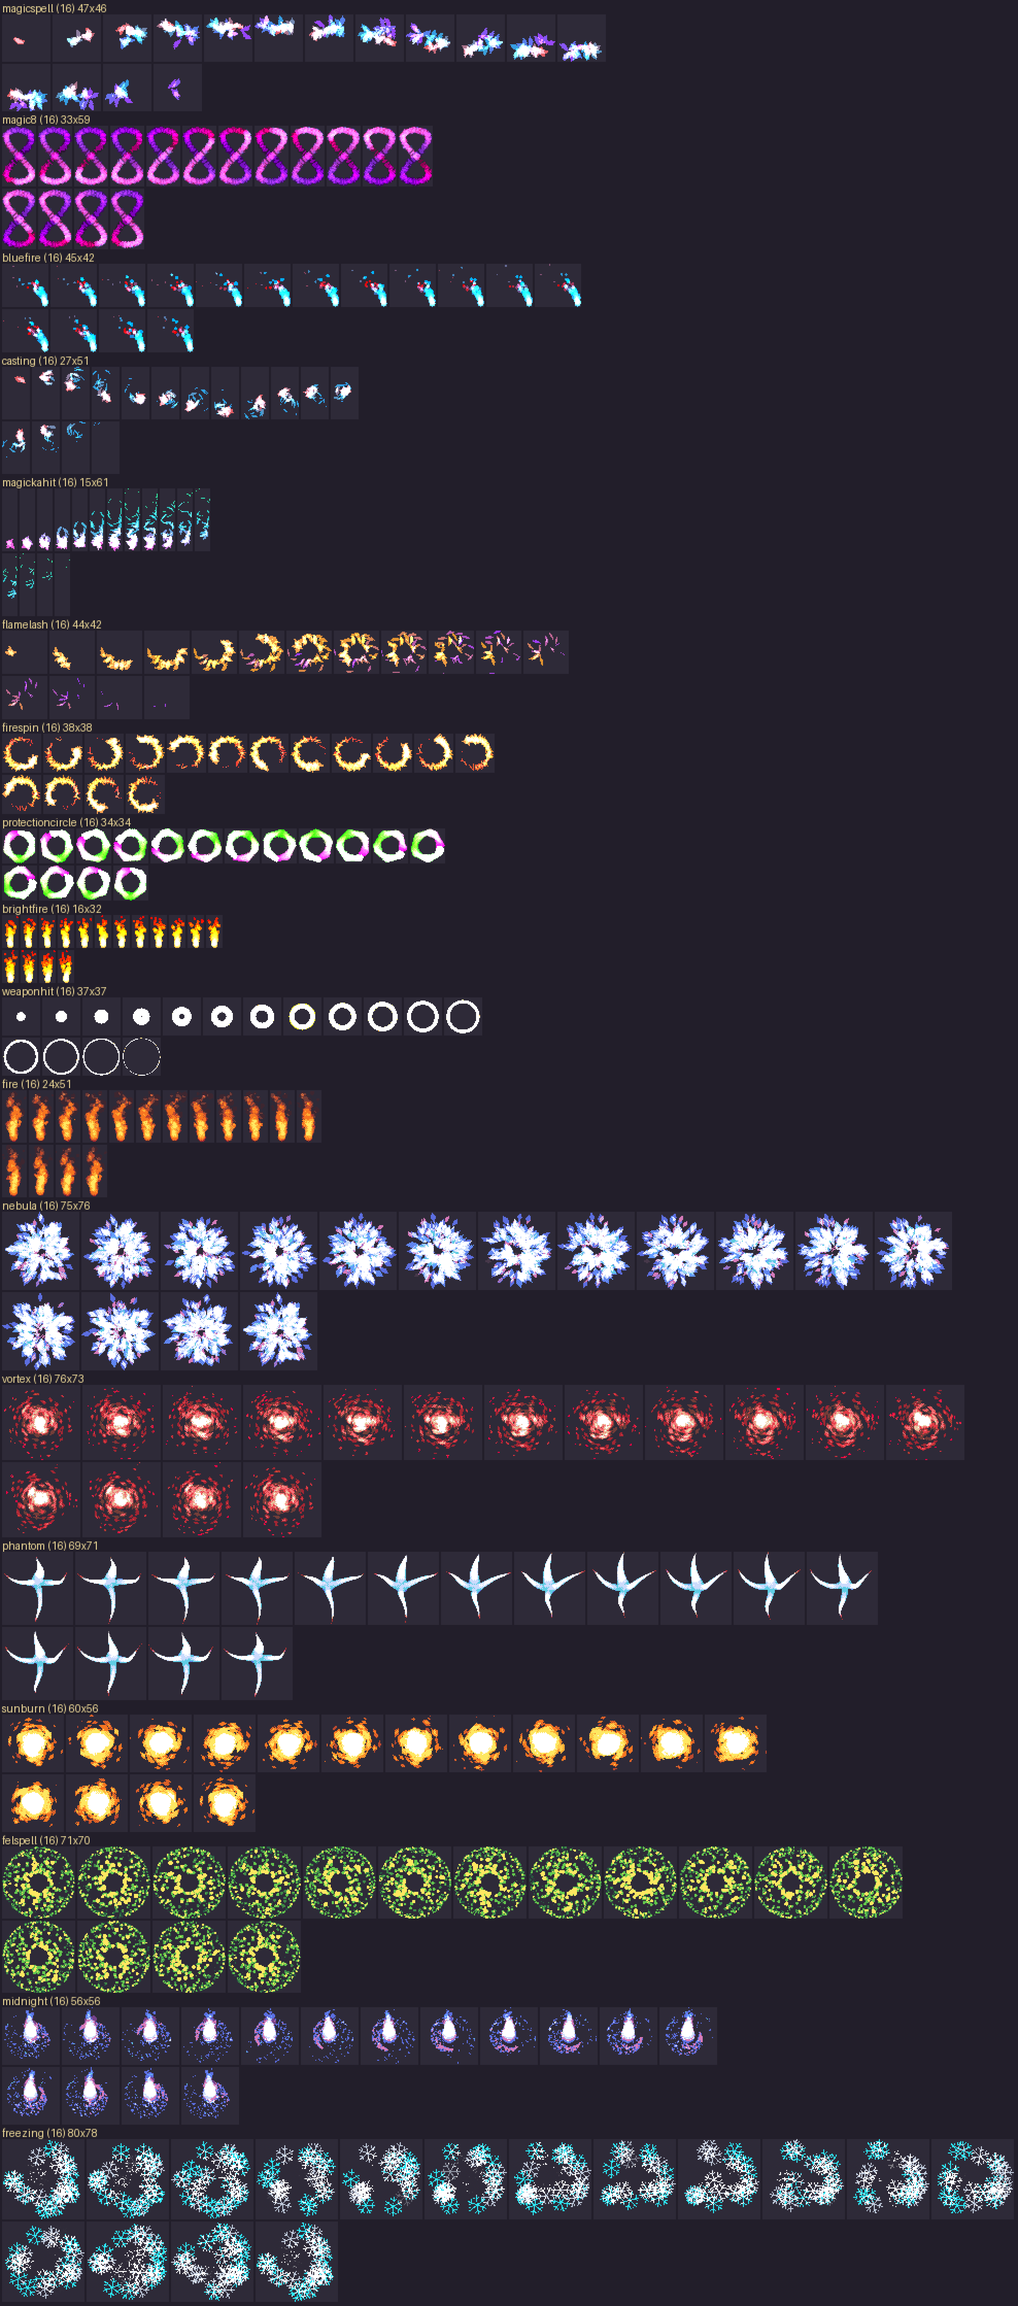
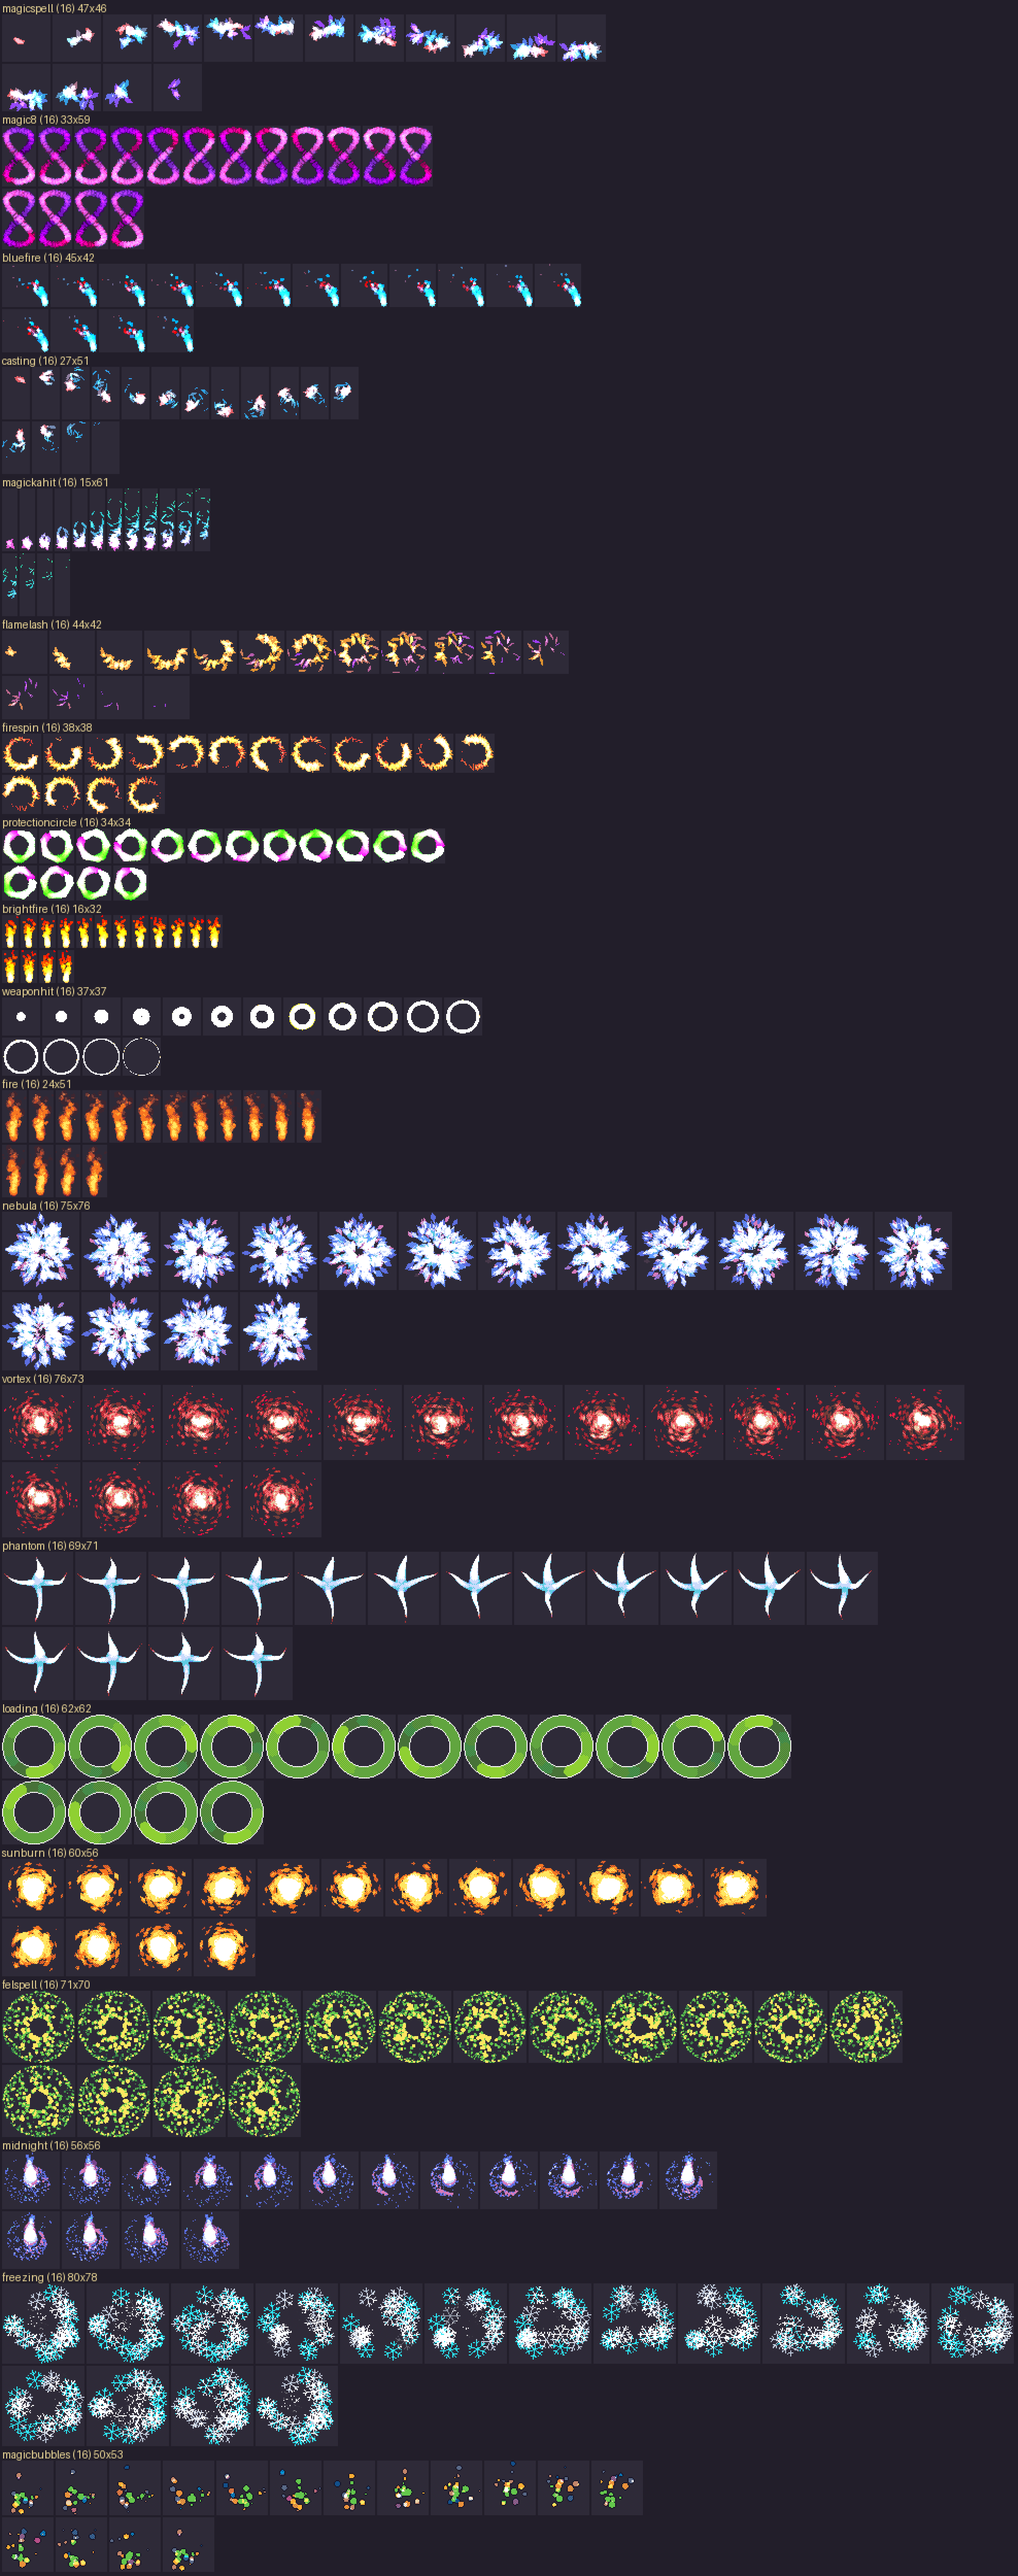
art library: owner's effect packs - CodeManu (all 20, CC-BY 4.0), MatheusGG28 11 effects; XYEzawr packs built locally only (licence forbids redistribution)
Claude-Session: https://claude.ai/code/session_01JNqfgFicyr2mD9M2BCyVKG

diff --git a/game/tools/art/library/build_vfx.py b/game/tools/art/library/build_vfx.py
@@ -97,12 +97,13 @@ def pvfx():
 def codemanu():
     root = P('codemanu/x/Free_Pixel_Effects_Pack')
     pk = Pack('codemanu_pixel_fx', author='CodeManu', licence='CC-BY 4.0 (itch.io licence field; the page text says public domain - we credit to be safe)',
-              credit='"Free Pixel Effects Pack" by CodeManu (https://codemanu.itch.io/pixelart-effect-pack), CC-BY 4.0',
+              credit='Free Pixel Effects Pack by CodeManu (CC-BY 4.0)',
               url='https://codemanu.itch.io/pixelart-effect-pack', notes='100x100 grid sheets, empty cells dropped, subsampled to 16 frames max.')
     uses = {'weaponhit': 'weapon hit spark', 'fire': 'fire column', 'phantom': 'ghost / soul burst', 'felspell': 'curse cast', 'midnight': 'dark burst',
             'flamelash': 'fire whip slash', 'firespin': 'fire vortex', 'brightfire': 'holy fire', 'magickahit': 'magic impact', 'casting': 'cast glyph',
             'protectioncircle': 'ward circle', 'sunburn': 'sun flare', 'freezing': 'ice burst', 'vortex': 'void vortex', 'nebula': 'mist cloud',
-            'bluefire': 'soul fire', 'magicspell': 'spell burst', 'magic8': 'rune ring'}
+            'bluefire': 'soul fire', 'magicspell': 'spell burst', 'magic8': 'figure-eight rune trail',
+            'loading': 'spinner (loading / saving icon)', 'magicbubbles': 'bubbles (poison / swamp)'}
     for f in natsort(glob.glob(os.path.join(root, '*_spritesheet.png'))):
         key = re.sub(r'^\d+_|_spritesheet\.png$', '', os.path.basename(f))
         if key not in uses: continue
@@ -226,5 +227,45 @@ def textures():
     pk.done(zoom=1)
 
 
+# ------------------------------------------------------------------ MatheusGG28 "Pixel FX Pack - 11 Visual Effects" (free, commercial OK, no credit)
+def matheus():
+    root = P('matheus_fx/x/*/*')
+    pk = Pack('matheusgg28_pixel_fx', author='MatheusGG28', licence='itch.io free licence: "Free for personal and commercial use. No credits required."',
+              credit='Pixel FX Pack - 11 Visual Effects by MatheusGG28 (credit optional)', url='https://matheusgg99.itch.io/impact-and-explosion-effects-pack',
+              notes='32x32 pixel effects at native size. The page states no redistribution limit; it also grants no explicit redistribution right.')
+    for folder, eff, use in (('Explosion_Impacts/Small_Explosion', 'explosion_small', 'small blast / hit pop'),
+                             ('Explosion_Impacts/Median_Explosion', 'explosion_medium', 'medium blast'),
+                             ('Explosion_Impacts/Big_Explosion', 'explosion_big', 'big blast (powder keg)'),
+                             ('Projectile_Impacts/Projectile_Impact', 'impact_projectile', 'arrow / bolt impact'),
+                             ('Projectile_Impacts/Projectile_Impact_2', 'impact_projectile_2', 'magic bolt impact'),
+                             ('Punch_Impact', 'impact_punch', 'gauntlet punch / shield bash impact'),
+                             ('Dust_Effects/Dust_Effect', 'dust', 'run / land dust'), ('Dust_Effects/Dust_Effect_2', 'dust_2', 'dodge-roll dust'),
+                             ('Shock_Waves/Shock_Wave', 'shockwave', 'slam shockwave'), ('Shock_Waves/Shock_Wave_2', 'shockwave_2', 'ring shockwave'),
+                             ('Shock_Waves/Shock_Wave_3', 'shockwave_3', 'wide shockwave')):
+        fr = [lib.rgba(f) for f in natsort(glob.glob(os.path.join(root, folder, '*.png')))]
+        pk.add(eff, fr, fps=14, use=use, n='keep')
+    pk.done(zoom=4)
+
+
+# ------------------------------------------------------------------ XYEzawr Free Pixel Effects Pack #1-#3 (free use in games, NO redistribution)
+# These are written to vfx/xyezawr_*/, which vfx/.gitignore keeps out of the (public) repository: the licence allows
+# shipping them inside the game but not redistributing the files. Regenerate locally with this script.
+def xyezawr():
+    packs = (('xyezawr_pack_1', 'xyez_1/x/Fx_pack', 'https://xyezawr.itch.io/free', ('1', '2', '3')),
+             ('xyezawr_pack_2', 'xyez_2/x/*', 'https://xyezawr.itch.io/free-pixel-effects-pack-2', ('2', '4')),
+             ('xyezawr_pack_2_extra', 'xyez_2b/x/*', 'https://xyezawr.itch.io/free-pixel-effects-pack-2', ('1', '3/1', '3/2', '5', '6')),
+             ('xyezawr_pack_3', 'xyez_3/x/*', 'https://xyezawr.itch.io/free-pixel-effects-pack-3', ('1', '2', '3')))
+    for name, folder, url, effs in packs:
+        pk = Pack(name, author='XYEzawr', licence='itch.io licence: free and commercial projects, modify OK, credit optional; '
+                  'NOT to be redistributed or resold (so kept out of the public git repo)', credit='Free Pixel Effects Pack by XYEzawr (credit optional)',
+                  url=url, notes='100x100 frames, subsampled to 20 frames max. LOCAL ONLY (git-ignored).')
+        for e in effs:
+            files = natsort(glob.glob(os.path.join(DL, folder, e, '*.png')))
+            files = [f for f in files if os.path.isfile(f)]
+            fr = [lib.rgba(f) for f in files]
+            pk.add('effect_' + e.replace('/', '_'), fr, fps=24, n=20, blend='add', use='see preview')
+        pk.done(zoom=1)
+
+
 if __name__ == '__main__':
-    pvfx(); codemanu(); cethiel(); pixel_misc(); rendered(); textures()
+    pvfx(); codemanu(); cethiel(); pixel_misc(); rendered(); textures(); matheus(); xyezawr()
